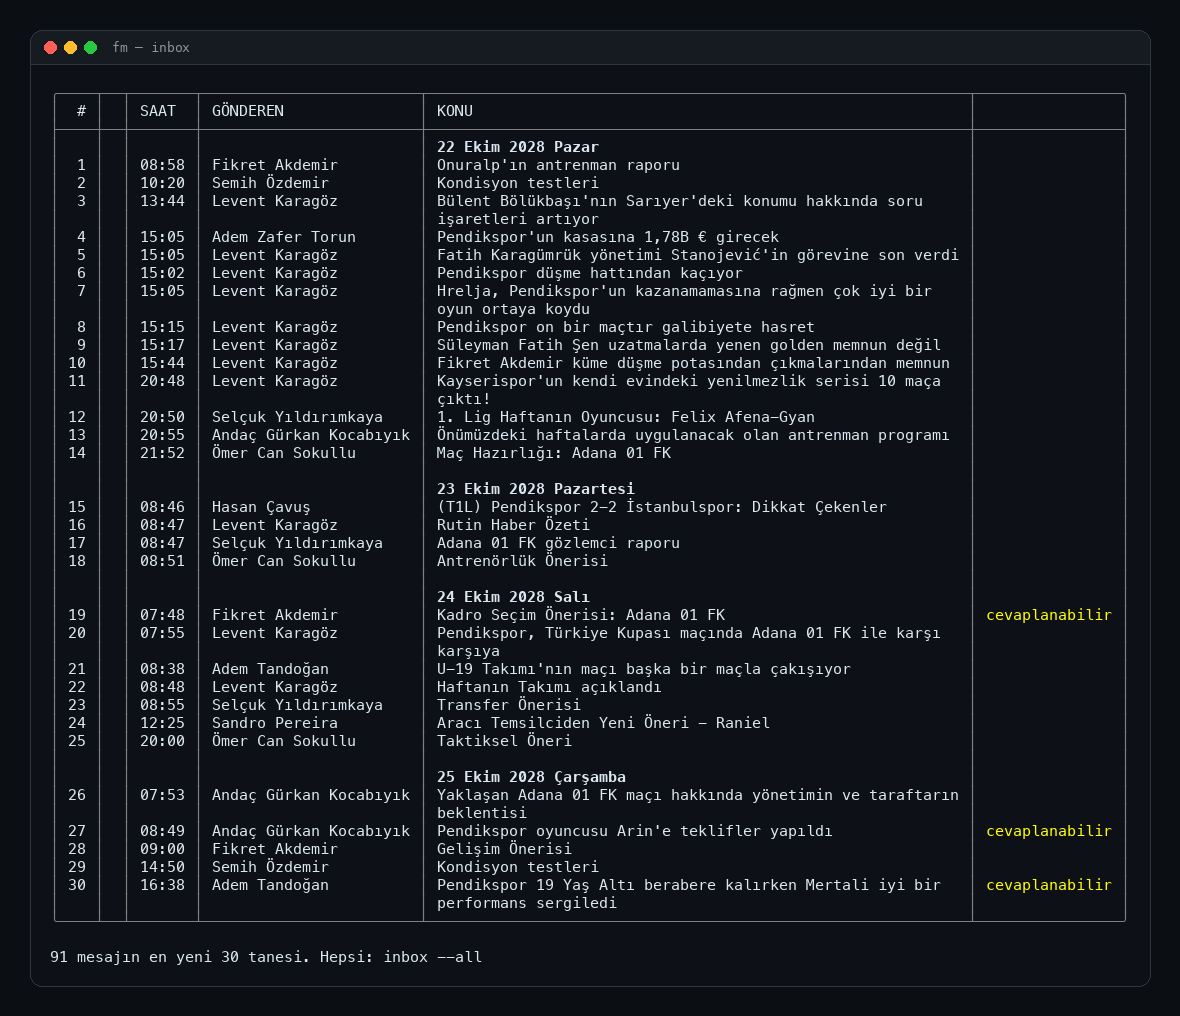
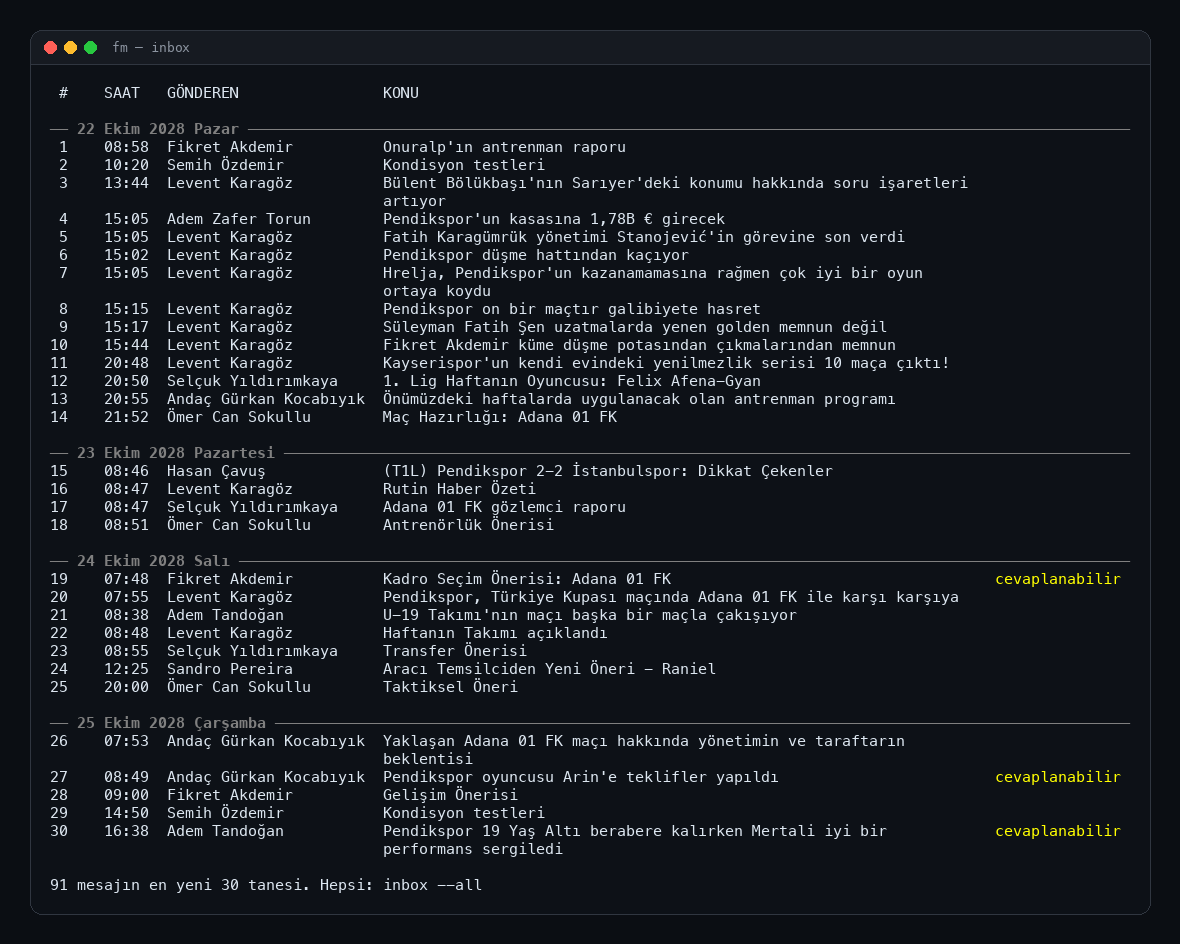
feat: inbox days set apart by a line with the day on it, the columns aligned under one heading; the sender cut at a narrow terminal

diff --git a/cli/fm/Core/InboxView.cs b/cli/fm/Core/InboxView.cs
@@ -12,41 +12,66 @@ internal static class InboxView
 	/// </summary>
 	public static void Draw(JsonElement inbox)
 	{
-		var table = new Spectre.Console.Table { Border = TableBorder.Rounded, BorderStyle = new Style(Color.Grey) }
-			.AddColumn(new TableColumn("[dim]#[/]").RightAligned())
-			.AddColumn(new TableColumn(""))
-			.AddColumn(new TableColumn(L("[dim]TIME[/]")))
-			.AddColumn(new TableColumn(L("[dim]FROM[/]")))
-			.AddColumn(new TableColumn(L("[dim]SUBJECT[/]")))
-			.AddColumn(new TableColumn(""));
-
 		var numbered = inbox.EnumerateArray().Select((m, i) => (Message: m, Number: i + 1)).ToList();
+		var rows = numbered.Select(x =>
+		{
+			var message = x.Message;
+			var unread = Field(message, "NewsItemHasBeenRead") != "True";
+			var title = Ui.Safe(Field(message, "NewsTitleString"));
+			var preview = GameWords.Of(Field(message, "NewsFirstBubbleSpeechString"));
+			var blocking = Program.Blocking(message);
+			var subject = (blocking ? $"[red bold]{title}[/]" : unread ? $"[bold]{title}[/]" : title)
+			              + (preview.Length > 0 ? $"\n[dim]{Ui.Safe(Ui.Fit(preview.Replace('\n', ' '), 90))}[/]" : "");
+			var state = blocking ? L("[red bold]awaiting an answer[/]")
+				: Program.Answerable(message) ? L("[yellow]can be answered[/]")
+				: "";
+			return (x.Number, Day: Field(message, "Date"), Blocking: blocking, Cells: new[]
+			{
+				$"[dim]{x.Number}[/]", unread ? "[deepskyblue1]●[/]" : "", Field(message, "NewsItemTimeSent"), Ui.Safe(Field(message, "Sender")), subject, state,
+			});
+		}).ToList();
+
+		// One set of widths for every day's rows, so the columns line up under the one heading.
+		static int Shown(string markup) => Markup.Remove(markup).Split('\n').Max(l => l.Length);
+		var widths = new int[6];
+		for (var c = 0; c < 6; c++)
+			widths[c] = rows.Select(r => Shown(r.Cells[c])).DefaultIfEmpty(0).Max();
+		string[] heads = ["#", "", L("TIME"), L("FROM"), L("SUBJECT"), ""];
+		for (var c = 0; c < 6; c++) widths[c] = Math.Max(widths[c], heads[c].Length);
+		const int gap = 2;
+		var room = Ui.Out.Profile.Width - 1;
+		// A narrow terminal gives the subject the room: the sender is cut, marked.
+		var senderRoom = room < 110 ? 16 : 24;
+		widths[3] = Math.Min(widths[3], senderRoom);
+		foreach (var r in rows) r.Cells[3] = Ui.Safe(Ui.Fit(Markup.Remove(r.Cells[3]), senderRoom));
+		widths[4] = Math.Max(30, Math.Min(widths[4], room - widths.Where((_, i) => i != 4).Sum() - gap * 5));
+
+		Spectre.Console.Table Part(bool headed)
+		{
+			var table = new Spectre.Console.Table { Border = TableBorder.None, ShowHeaders = headed };
+			for (var c = 0; c < 6; c++)
+				table.AddColumn(new TableColumn(heads[c].Length > 0 ? $"[dim]{Ui.Safe(heads[c])}[/]" : "")
+				{
+					Width = widths[c], Padding = new Padding(0, 0, c < 5 ? gap : 0, 0), Alignment = c == 0 ? Justify.Right : Justify.Left,
+				});
+			return table;
+		}
+
 		// Days in the order the list has them; within a day what holds the game up first, then as listed.
-		var days = numbered.GroupBy(x => Field(x.Message, "Date")).ToList();
+		var days = rows.GroupBy(r => r.Day).ToList();
 		var dated = days.Any(d => d.Key.Length > 0);
+		Ui.Out.Write(Part(headed: true));
 		foreach (var day in days)
 		{
 			if (dated && day.Key.Length > 0)
 			{
-				if (table.Rows.Count > 0) table.AddEmptyRow();
-				table.AddRow("", "", "", "", $"[bold underline]{Ui.Safe(Program.DayHeading(day.Key))}[/]", "");
+				Ui.Out.WriteLine();
+				Ui.Out.Write(new Rule($"[bold]{Ui.Safe(Program.DayHeading(day.Key))}[/]") { Justification = Justify.Left, Style = new Style(Color.Grey) });
 			}
-			foreach (var (message, number) in day.OrderByDescending(x => Program.Blocking(x.Message)))
-			{
-				var unread = Field(message, "NewsItemHasBeenRead") != "True";
-				var title = Ui.Safe(Field(message, "NewsTitleString"));
-				var preview = GameWords.Of(Field(message, "NewsFirstBubbleSpeechString"));
-				var blocking = Program.Blocking(message);
-				var subject = (blocking ? $"[red bold]{title}[/]" : unread ? $"[bold]{title}[/]" : title)
-				              + (preview.Length > 0 ? $"\n[dim]{Ui.Safe(Ui.Fit(preview.Replace('\n', ' '), 90))}[/]" : "");
-				var state = blocking ? L("[red bold]awaiting an answer[/]")
-					: Program.Answerable(message) ? L("[yellow]can be answered[/]")
-					: "";
-				table.AddRow($"[dim]{number}[/]", unread ? "[deepskyblue1]●[/]" : "", Field(message, "NewsItemTimeSent"), Ui.Safe(Field(message, "Sender")), subject, state);
-			}
+			var part = Part(headed: false);
+			foreach (var row in day.OrderByDescending(r => r.Blocking)) part.AddRow(row.Cells);
+			Ui.Out.Write(part);
 		}
-
-		Ui.Out.Write(table);
 	}
 
 	private static string Field(JsonElement element, string name) =>

diff --git a/docs/MANUAL.md b/docs/MANUAL.md
@@ -92,7 +92,7 @@ fm talk               # the open conversation: what was said and what can be sai
 
 ![fm inbox](manual/img/inbox/inbox.png)
 
-- At a terminal the messages come under a heading for each day (the message's own date), unread marked ●, one awaiting an answer in red and first under its day. Each keeps its number, which is what `reply` takes. `--json` has each message's `Date`.
+- At a terminal each day's messages come under a line with the day on it (the message's own date), unread marked ●, one awaiting an answer in red and first under its day. Each keeps its number, which is what `reply` takes. `--json` has each message's `Date`.
 
 ![fm inbox --tasks](manual/img/inbox/inbox-tasks.png)
 
